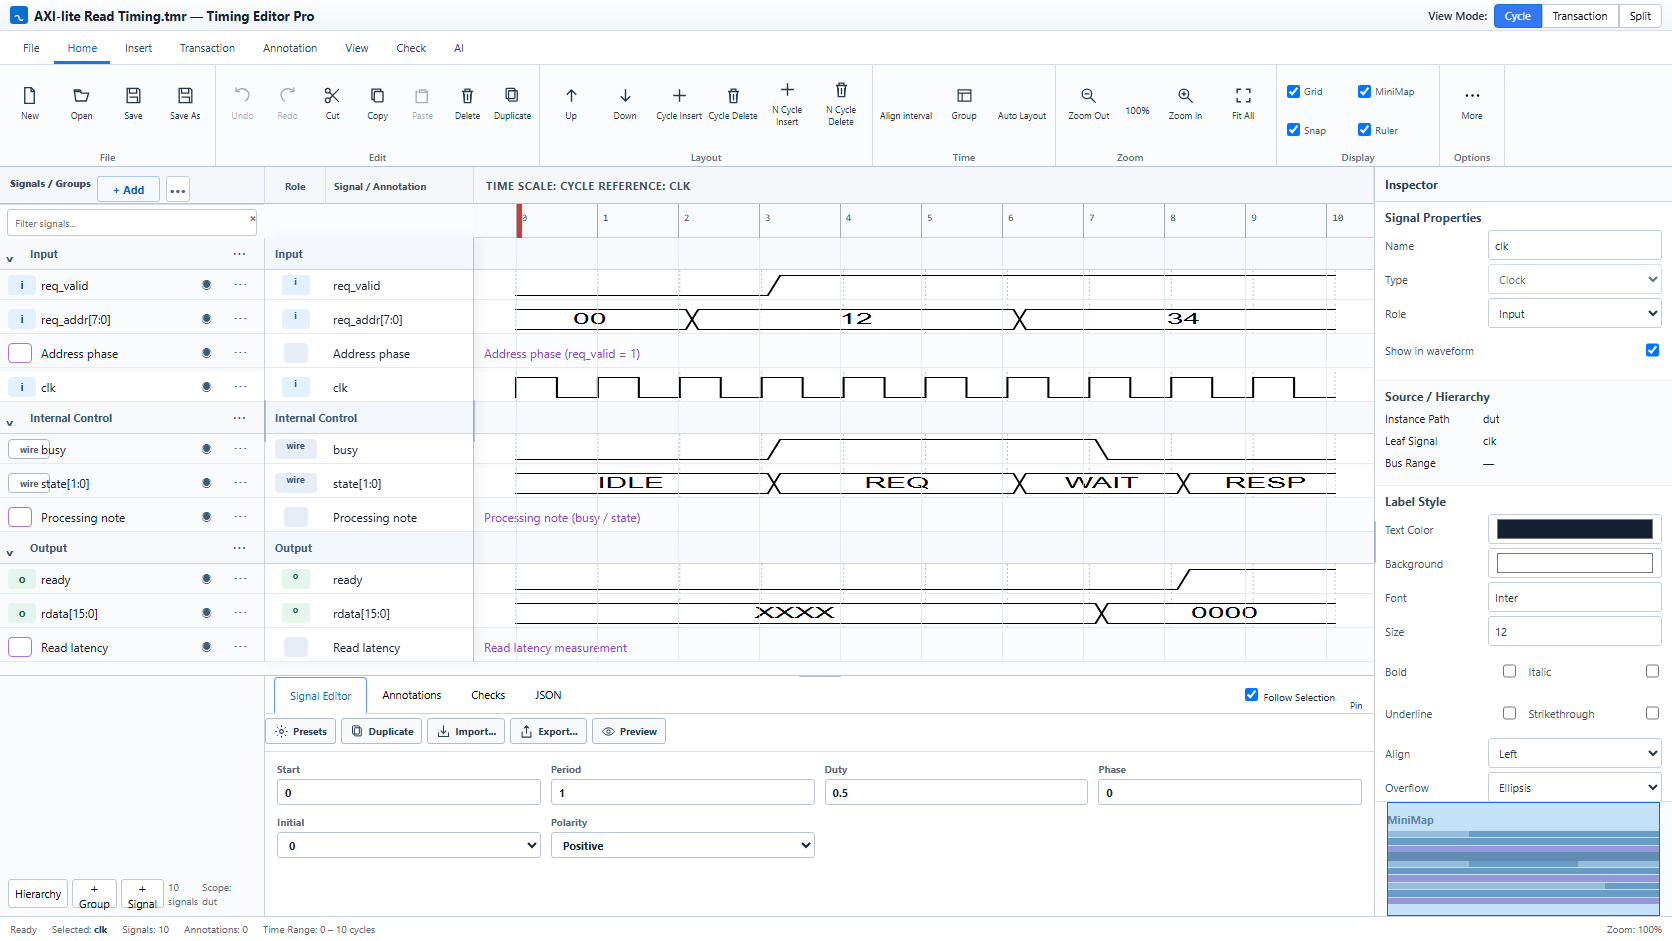
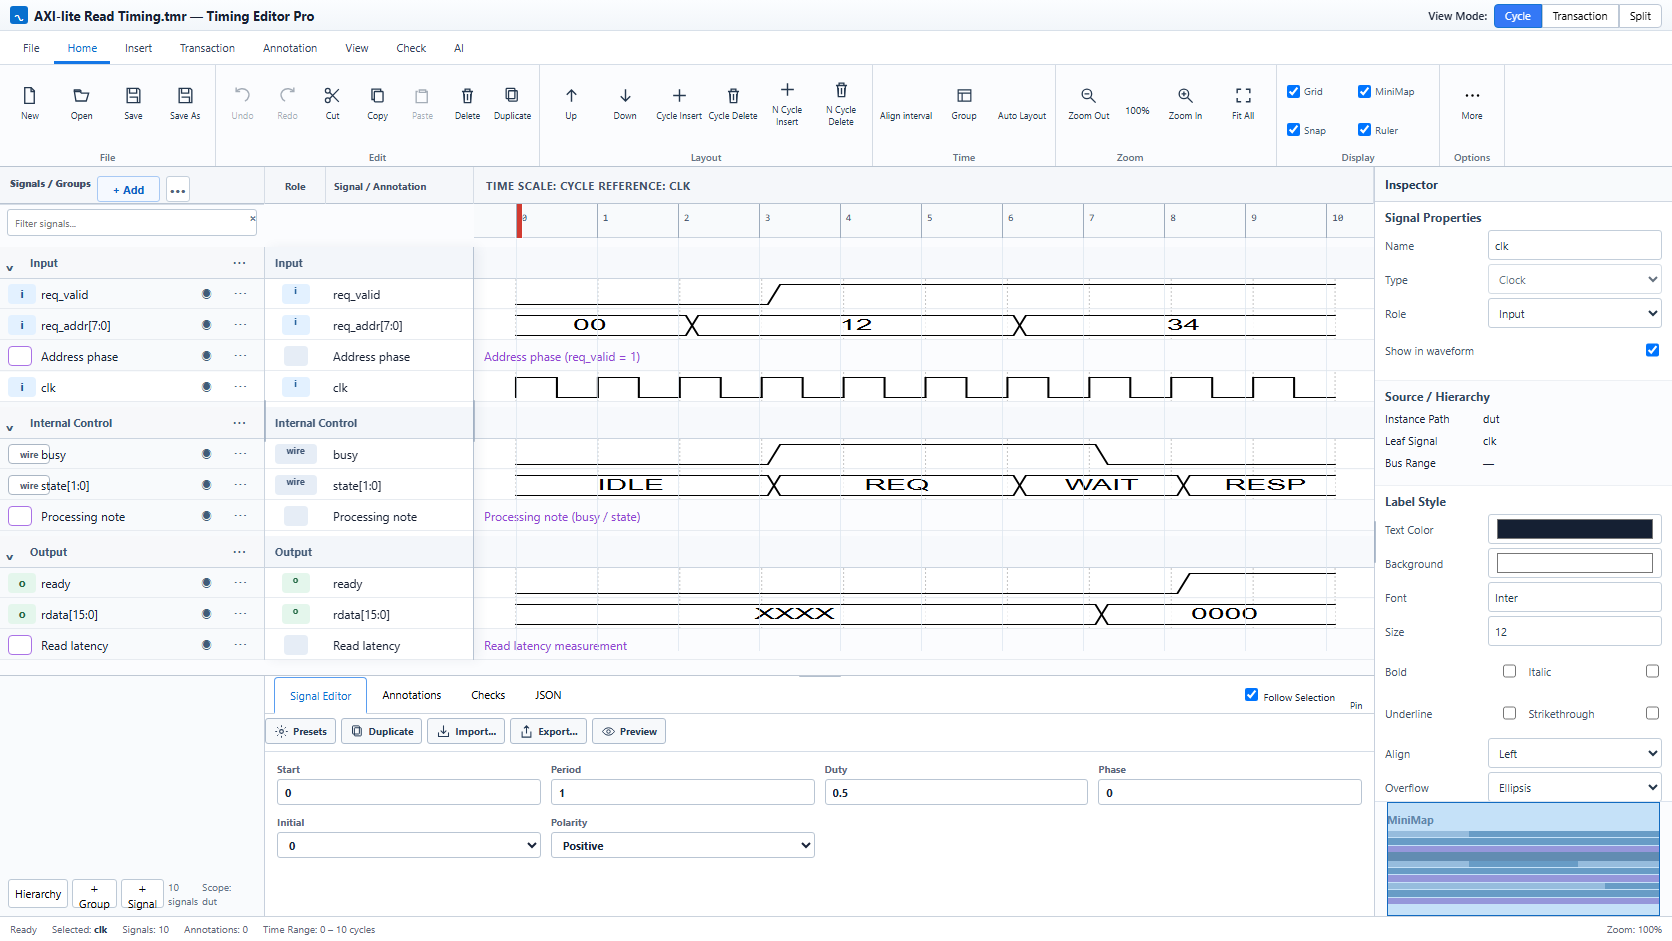
fix(v2): align Golden row geometry

diff --git a/timing-chart-v2/apps/editor/src/minimal-cycle-view.tsx b/timing-chart-v2/apps/editor/src/minimal-cycle-view.tsx
@@ -98,8 +98,8 @@ const v1ReferenceDocument: CanonicalDocument = {
   document: { ...cycleDocument.document, title: "AXI-lite Read Timing.tmr — Timing Editor Pro", header: { ...cycleDocument.document.header, subtitle: "Protocol timing reference" } },
   signals: [...v8ReferenceSignals, v1ReferenceComment, v8ReferenceProcessingComment, v8ReferenceLatencyComment],
   signalGroups: [
-    { id: groupId("grp_cycle_control"), name: "Input", rows: ["sig_cycle_reset_n", "sig_cycle_request", v1ReferenceComment.id, "sig_cycle_clock"] as SignalId[] },
-    { id: groupId("grp_cycle_payload"), name: "Internal Control", rows: ["sig_cycle_ready", "sig_cycle_valid", v8ReferenceProcessingComment.id] as SignalId[] },
+    { id: groupId("grp_cycle_control"), name: "Input", rows: ["sig_cycle_reset_n", "sig_cycle_request", v1ReferenceComment.id, "sig_cycle_clock"] as SignalId[], spacingAfter: 5 },
+    { id: groupId("grp_cycle_payload"), name: "Internal Control", rows: ["sig_cycle_ready", "sig_cycle_valid", v8ReferenceProcessingComment.id] as SignalId[], spacingAfter: 5 },
     { id: groupId("grp_cycle_scratch"), name: "Output", rows: ["sig_cycle_data", "sig_cycle_result", v8ReferenceLatencyComment.id] as SignalId[] },
   ],
   // The approved V8 Home Golden is the neutral Cycle state: overlays and the
@@ -107,6 +107,7 @@ const v1ReferenceDocument: CanonicalDocument = {
   // reference fixture unless the Golden explicitly shows them.
   annotations: [],
   legend: { show: false, orientation: "horizontal", usedRolesOnly: true, position: { x: 0, y: 0 } },
+  layout: { ...cycleDocument.layout, rowHeight: 30, signalSpacing: 1 },
 };
 
 export function MinimalCycleView() {

diff --git a/timing-chart-v2/apps/editor/src/styles.css b/timing-chart-v2/apps/editor/src/styles.css
@@ -324,6 +324,13 @@ body { min-width: 1100px; }
 .editor-shell[data-visual-reference="true"] .surface-host [data-role="left-row"],
 .editor-shell[data-visual-reference="true"] .surface-host [data-role="frozen-row"],
 .editor-shell[data-visual-reference="true"] .surface-host [data-role="wave-owner"] { height: 31px; }
+.editor-shell[data-visual-reference="true"] .surface-host [data-role$="-group-header"] { height: 32px; }
+.editor-shell[data-visual-reference="true"] .surface-host [data-role="left-tree-rows"],
+.editor-shell[data-visual-reference="true"] .surface-host [data-role="frozen-label-rows"],
+.editor-shell[data-visual-reference="true"] .surface-host [data-role="timing-semantic-rows"],
+.editor-shell[data-visual-reference="true"] .surface-host [data-role="stable-waveform-surface"],
+.editor-shell[data-visual-reference="true"] .surface-host [data-role="annotation-overlay-surface"],
+.editor-shell[data-visual-reference="true"] .surface-host [data-role="interactive-overlay-surface"] { transform: translateY(9px); }
 .editor-shell[data-visual-reference="true"] .surface-host [data-role="left-row"] { grid-template-columns: 28px minmax(0, 1fr) 27px 22px 0; gap: 5px; padding: 0 4px 0 8px; }
 .editor-shell[data-visual-reference="true"] .left-column-heading { align-items: flex-start; padding-top: 9px; }
 .editor-shell[data-visual-reference="true"] .left-column-heading > label { position: absolute; top: 37px; right: 0; left: 0; z-index: 21; display: block; height: 35px; padding: 4px 7px; border-top: 1px solid #d6dde6; background: #fbfcfe; }
